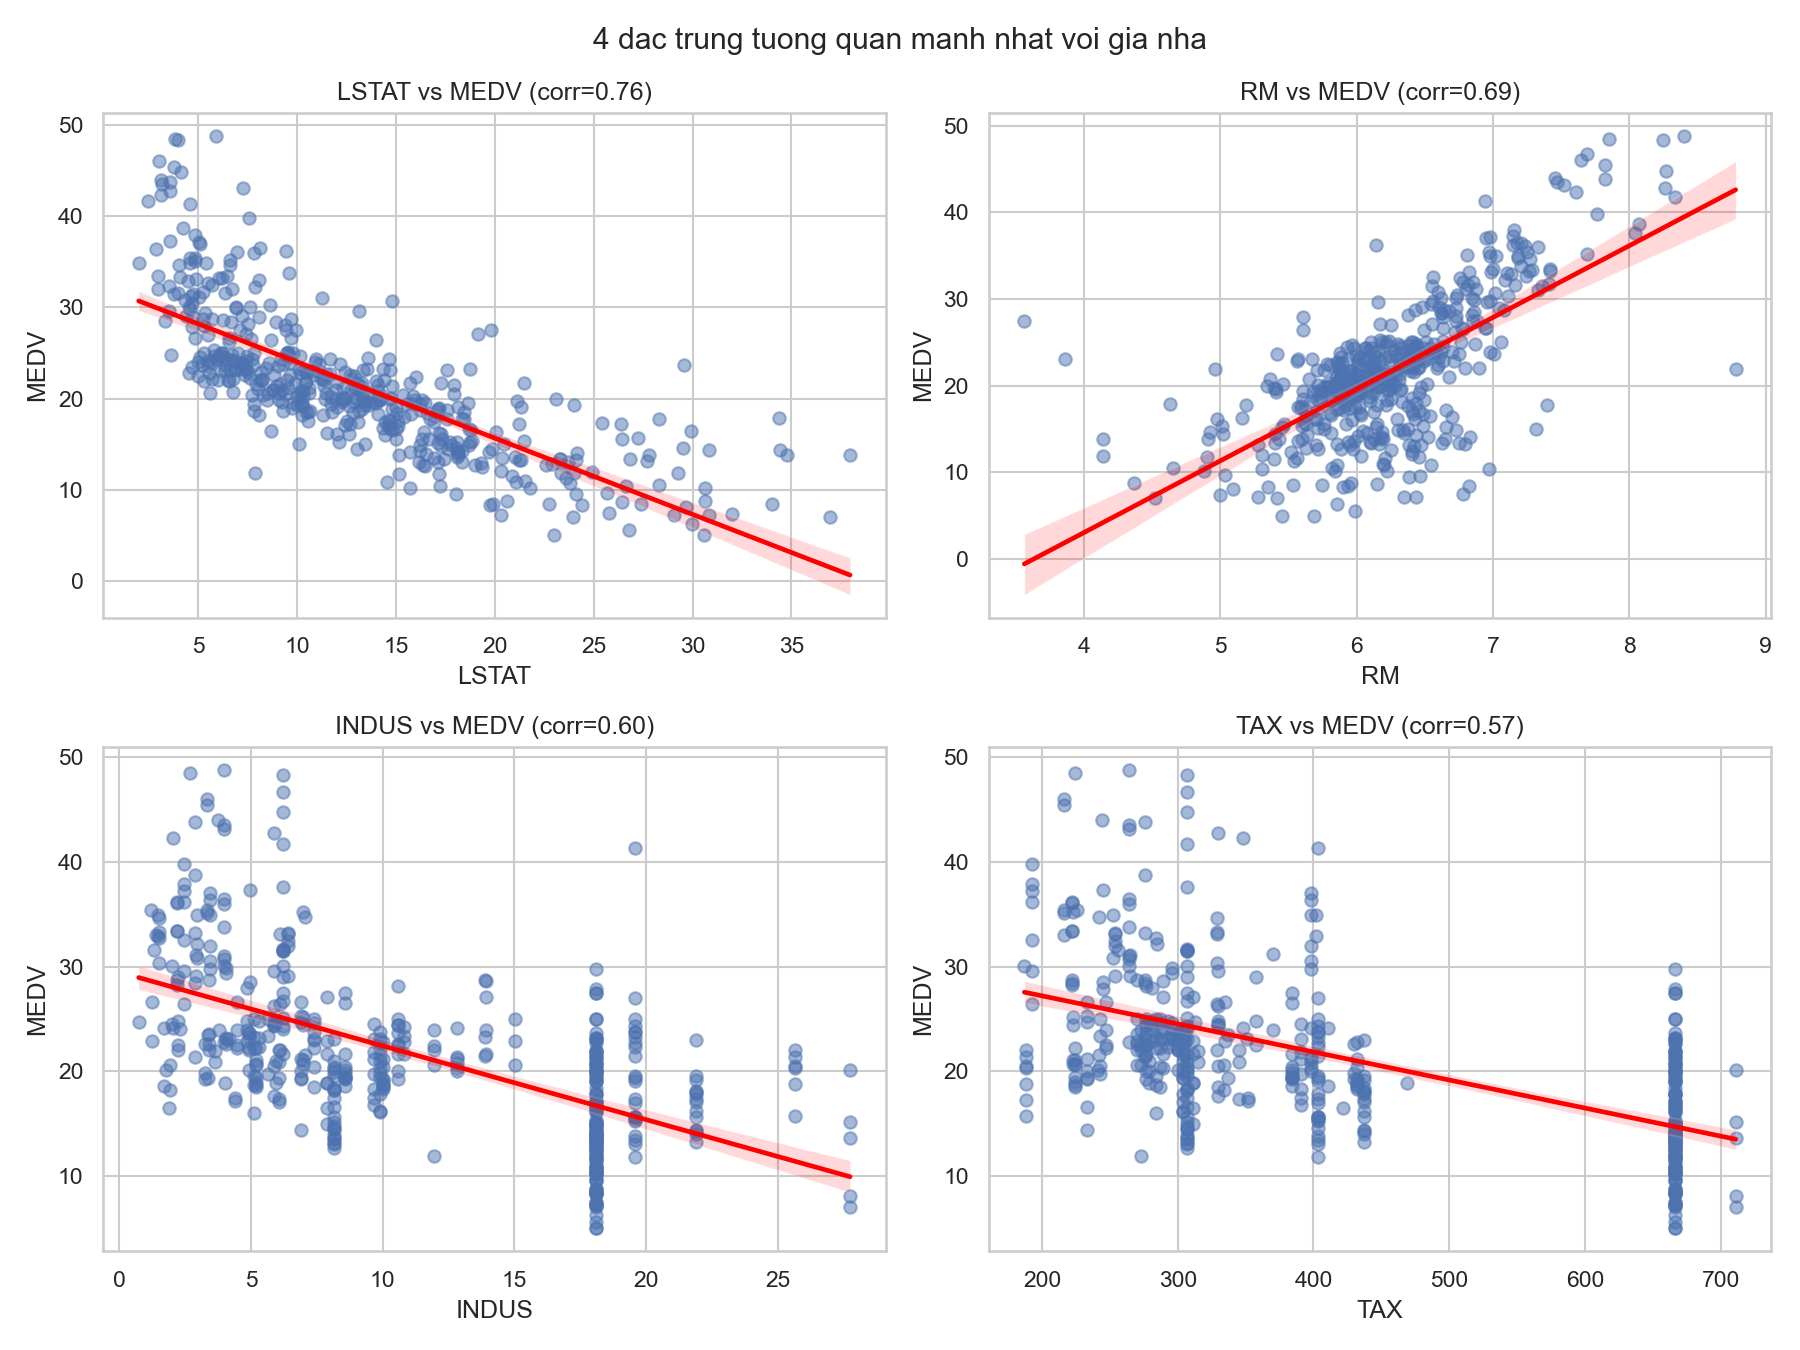
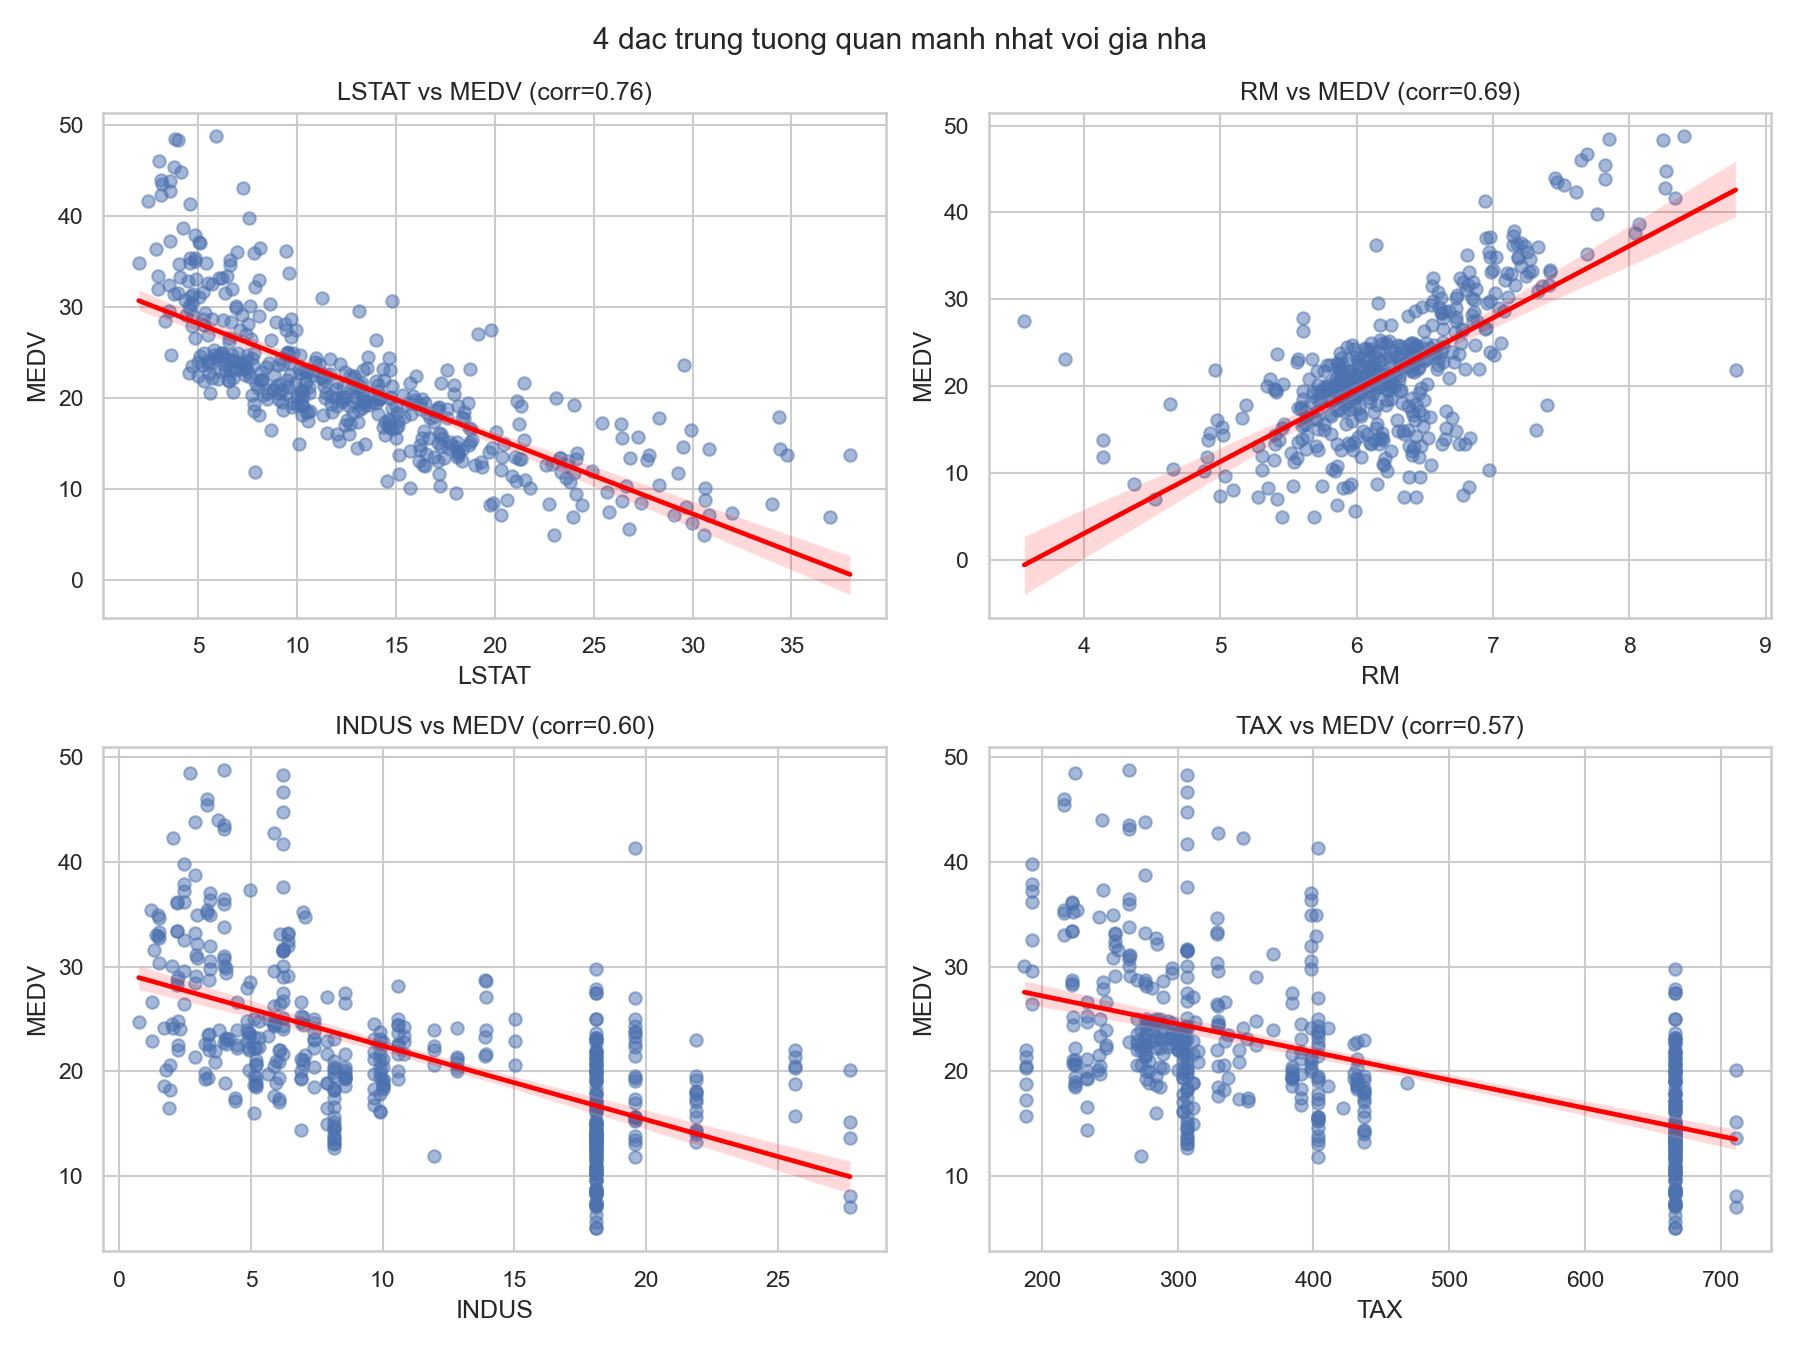
Them script run_all chay toan bo pipeline

diff --git a/README.md b/README.md
@@ -39,13 +39,17 @@ python -m venv .venv
 .venv\Scripts\activate   # Windows
 pip install -r requirements.txt
 
-# 2. Tien xu ly du lieu
+# 2. Chay toan bo pipeline (tien xu ly + train + vebieu do)
+powershell -ExecutionPolicy Bypass -File run_all.ps1
+
+# Hoac chay tung buoc le:
+# 2a. Tien xu ly du lieu
 python src/data/make_dataset.py
 
-# 3. Huan luyen mo hinh
+# 2b. Huan luyen mo hinh
 python src/models/train_model.py
 
-# 4. Ve bieu do
+# 2c. Ve bieu do
 python src/visualization/visualize.py
 
 # 5. Du doan 1 can nha moi (khong tron tham so: dung vi du mac dinh)
